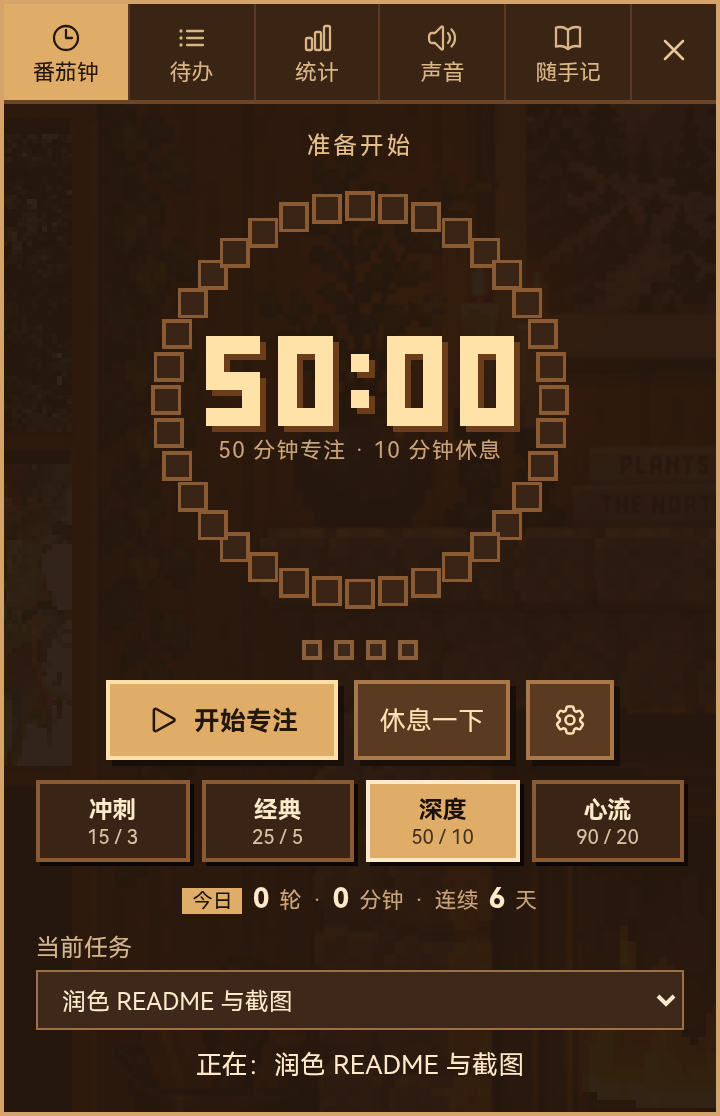
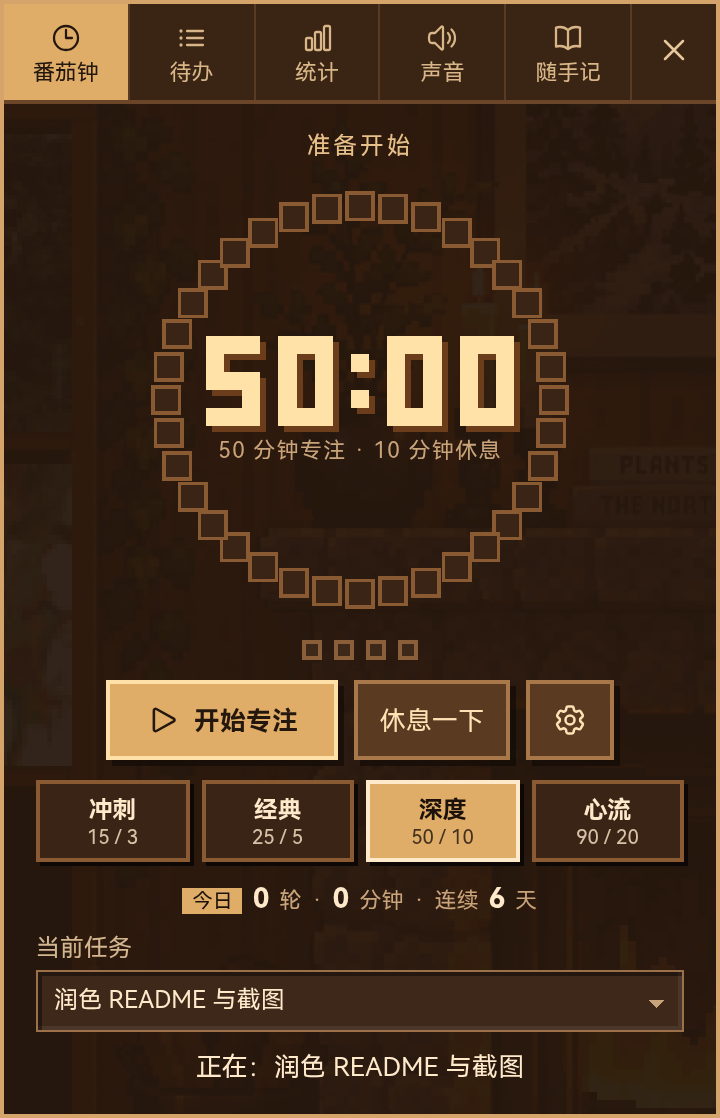
docs(art): art-direction guide + scene pixelation script; refresh README screenshots
- docs/art-direction.md: palette/type/shape/motion rules, live layers,
  cabin:playback consumption, asset sources and licences
- scripts/art/pixelate-scene.py: reproducible scene pixel treatment
- product-showcase waits for the player's quick-source prompt (the old
  '听歌前，先选择音源。' hint was replaced by PlayerControls)
- regenerated docs/assets/screenshots with the new UI

diff --git a/scripts/art/pixelate-scene.py b/scripts/art/pixelate-scene.py
@@ -1,0 +1,16 @@
+"""Pixel treatment used for the cabin scenes (see docs/art-direction.md).
+
+Usage: python3 scripts/art/pixelate-scene.py <in.png> <out.png> [colours]
+Input is a 1448x1086 render (vector scenes: screenshot the SVG at 1448x1086).
+1/4-resolution box downscale -> median-cut palette without dithering ->
+nearest-neighbour upscale, so every art pixel is a crisp 4x4 block.
+"""
+import sys
+from PIL import Image
+
+src, dst = sys.argv[1], sys.argv[2]
+colours = int(sys.argv[3]) if len(sys.argv) > 3 else 40
+im = Image.open(src).convert('RGB')
+small = im.resize((362, 272), Image.BOX)
+q = small.quantize(colors=colours, method=Image.Quantize.MEDIANCUT, dither=Image.Dither.NONE).convert('RGB')
+q.resize((1448, 1088), Image.NEAREST).crop((0, 0, 1448, 1086)).save(dst, optimize=True)

diff --git a/docs/art-direction.md b/docs/art-direction.md
@@ -1,0 +1,36 @@
+# Art direction · 心流小屋 pixel style
+
+Reference mood: cozy lo-fi pixel room (in the spirit of *Chill Pulse 心流小筑*) —
+warm wood and amber lamplight, soft night-blue windows, slow ambient motion,
+nothing glossy or rounded. Owner of this document: art direction (beauty).
+
+## Rules
+
+| Area | Rule |
+|---|---|
+| Palette | Only the tokens in `src/styles/tokens.css` (`--px-*`). JS/canvas: `src/styles/tokens.ts`. |
+| Type | Pixel display face `--px-font-cn` (Fusion Pixel 12px) / `--px-font-en` (Silkscreen) for chrome, titles, buttons; snap to **12 px or 24 px**. Long prose uses `--px-font-body`. |
+| Shape | No radii. Panels use the 9-slice notched frame `border-image: var(--px-frame-img) 2 / 6px`; buttons get a 2 px bevel + hard shadow (`--px-shadow-*`). |
+| Motion | `steps()` easing (`--px-ease`), durations `--px-dur-fast/med/slow`. Animate `translate/scale/opacity` only. Every animation has a reduced-motion fallback (`prefers-reduced-motion` and `html[data-desktop-reduce-motion=true]`). |
+| Images | Pixel art always `image-rendering: pixelated` (`.px-crisp`). Covers are box-filtered to 64×64 then upscaled. |
+| Scenes | All five rooms are pixel art. Vector sources stay in `public/room-scenes/*.svg`; the room shows `*-cabin-pixel.png` (`scene.view`), made with `scripts/art/pixelate-scene.py`. |
+
+## Live layers on top of the art
+
+- **Turntable** — `src/scene/SceneDeck.jsx` + `deck-sprite.mjs`: a 56×22-cell sprite (1 cell = 4 art px) sitting on the shelf top, per-scene position in `scene-deck.css`. Record seats in 4 frames, sheen orbits in 8, tonearm swings in 4, LED + notes while playing, halo follows `cabin:playback` energy. The painted turntable was removed from the pixel/amber art so there is only one deck.
+- **Console** — `src/scene/room-console.css`: compact framed panel bottom-left; audio sliders stay pinned when the 待播 queue is open.
+- **Ambient** — `src/scene/AmbientLife.jsx`: dust motes + window light beam (time-of-day aware). Snow / fire / daylight remain in `CabinAtmosphere`.
+- **Companion** — `src/pet/PetLife.jsx`: breathing, hover perk, poke squish + hearts, drag dangle, Zzz, focus dots, sparkles, music bop scaled by `--pet-energy`.
+
+## Events consumed
+
+`cabin:playback` (see `docs/events.md`) through `src/scene/playback-listener.mjs`: listeners are coalesced to one call per animation frame and only write CSS variables (`--deck-energy`, `--pet-energy`), so visuals never re-render React at 15 Hz. Without the event everything idles.
+
+## Asset sources & licences
+
+| Asset | Source | Licence |
+|---|---|---|
+| Fusion Pixel 12px (subset) | github.com/TakWolf/fusion-pixel-font v2026.09.25 | SIL OFL 1.1 (`public/fonts/pixel/`) |
+| Silkscreen (subset) | github.com/google/fonts `ofl/silkscreen` | SIL OFL 1.1 |
+| Turntable, notes, hearts, Zzz, sparkles, frames | drawn in code in this repo | project licence |
+| Scene pixel renders | derived from the repo's own scene art | project licence |
